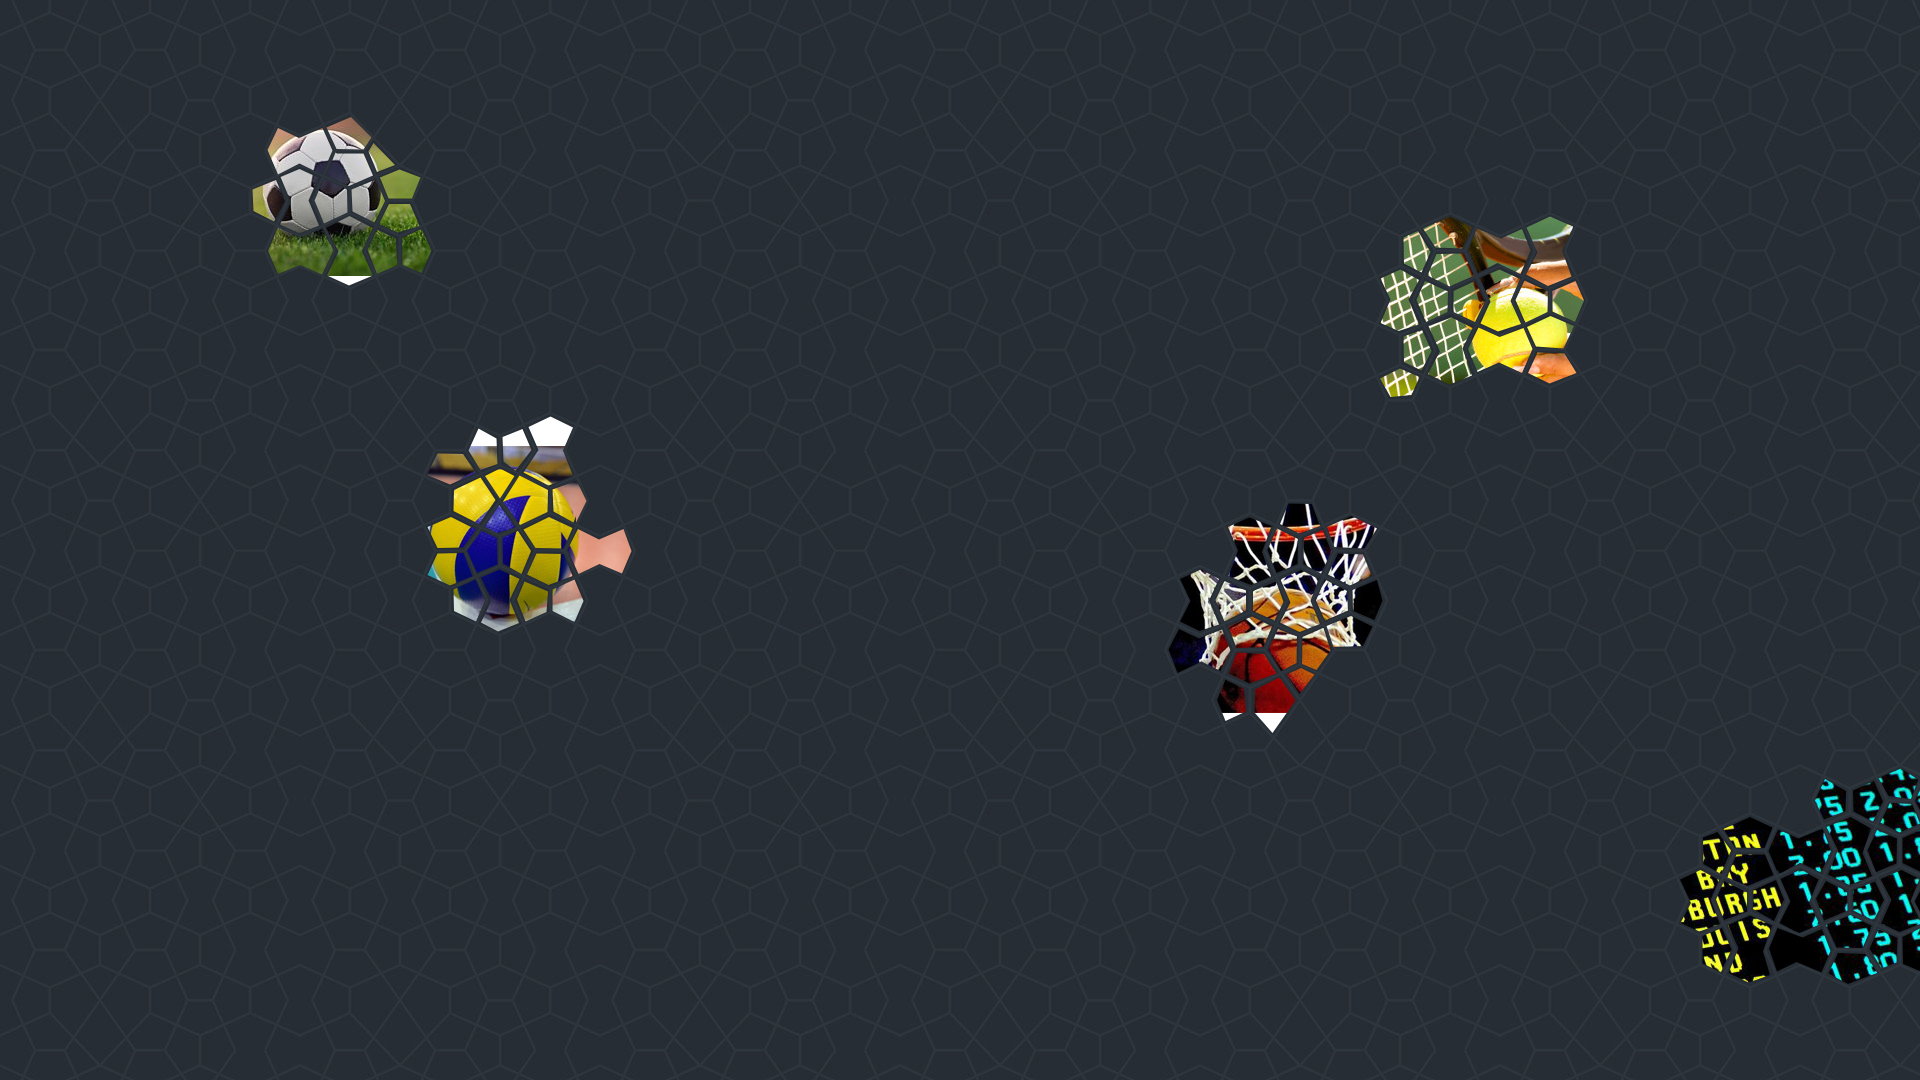
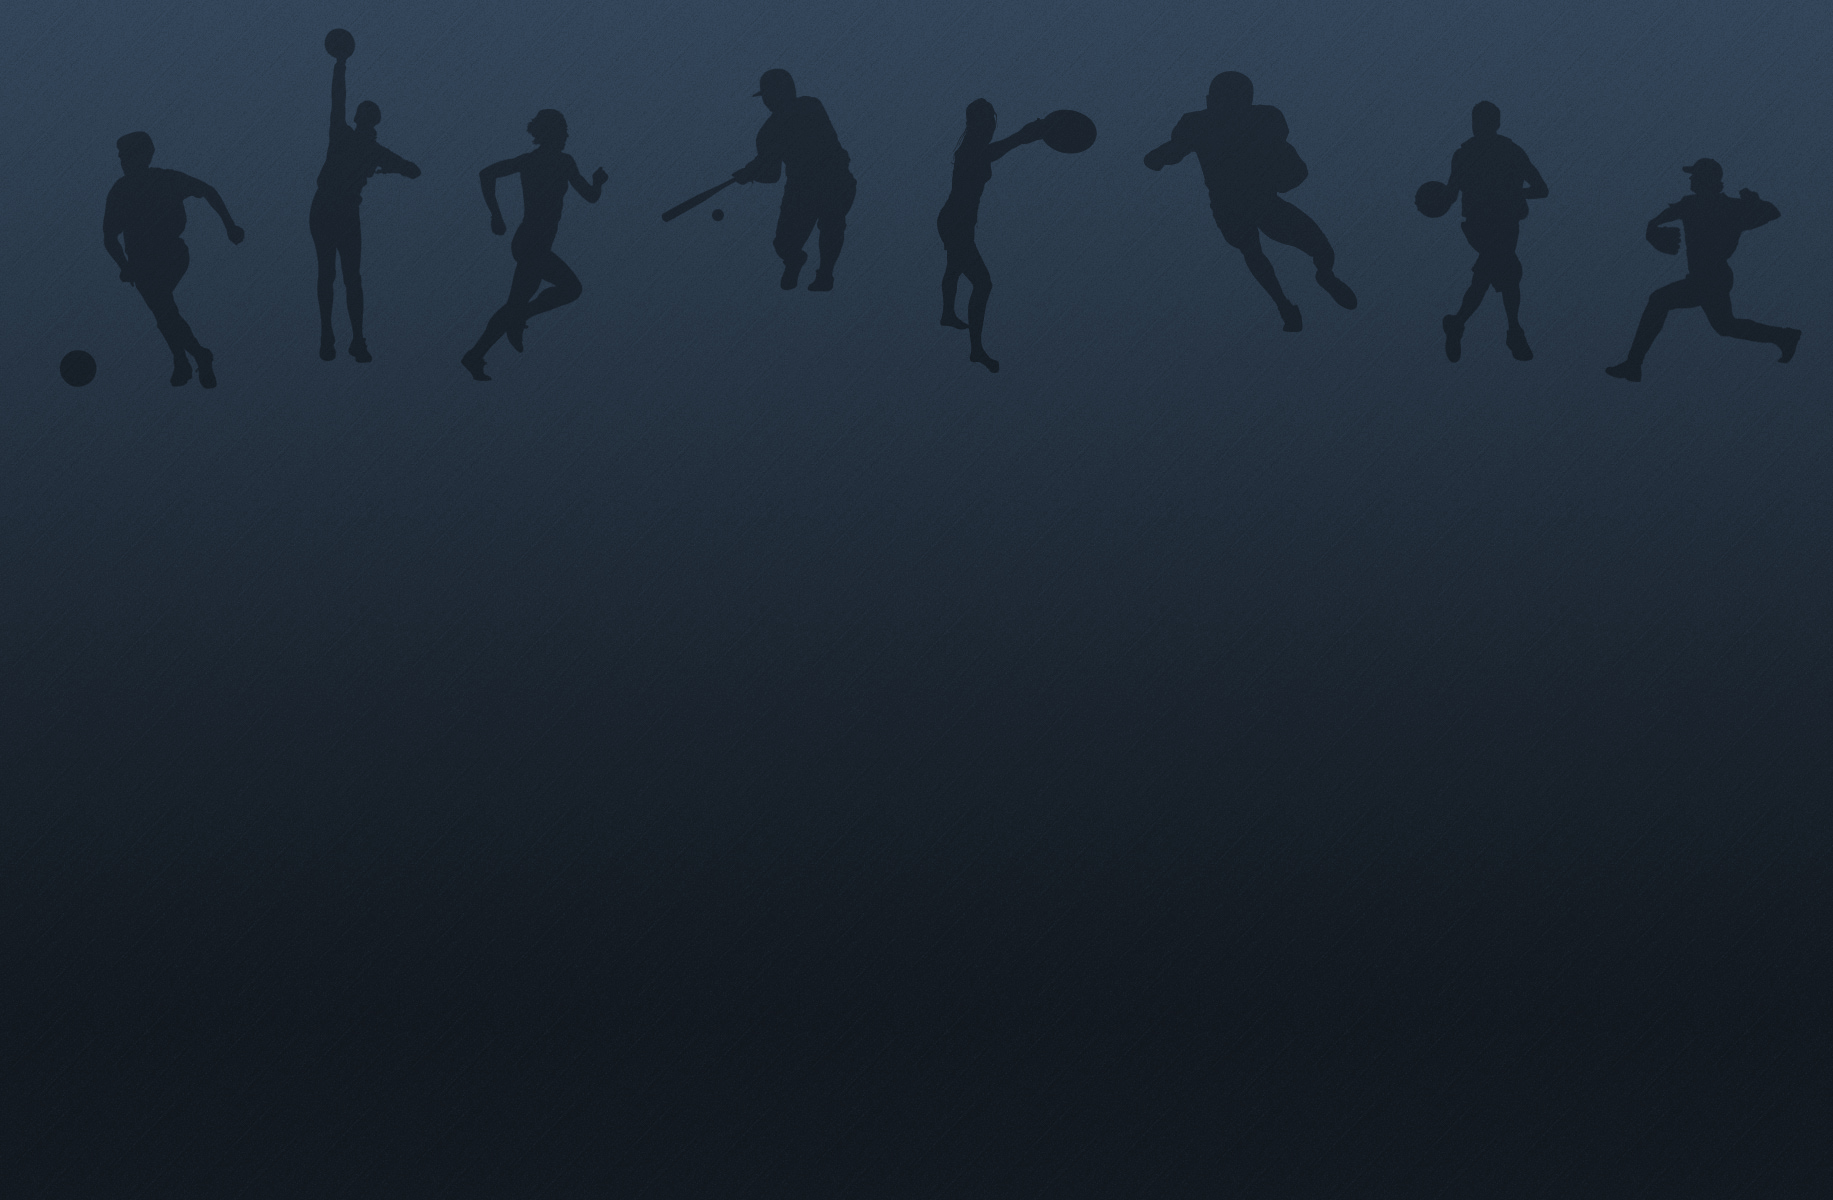
new bg, add-bet server validation

diff --git a/views/landing.html b/views/landing.html
@@ -60,7 +60,7 @@
 <div id="benefits">
 	<div id="title">Korzystając z aplikacji możesz:</div>
 <div class="row">
-	<div class="col-md-4">
+	<div class="col-md-4 col-xs-6">
 		<div class="th-head">
 			<div class="corner-right"></div>
 			<div class="corner-left"></div>
@@ -68,7 +68,7 @@
 		</div>
 		<div class="th-text">Wymieniać się typami bukmacherskimi z innymi użytkownikami</div>
 	</div>
-	<div class="col-md-4">
+	<div class="col-md-4 col-xs-6">
 		<div class="th-head">
 			<div class="corner-right"></div>
 			<div class="corner-left"></div>
@@ -76,7 +76,7 @@
 		</div>
 		<div class="th-text">Dodawać typy bez analizy, lub te poparte danymi czy statystykami</div>
 	</div>
-	<div class="col-md-4">
+	<div class="col-md-4 col-xs-6">
 		<div class="th-head">
 			<div class="corner-right"></div>
 			<div class="corner-left"></div>
@@ -84,7 +84,7 @@
 		</div>
 		<div class="th-text">Awansować w rankingu użytkowników, który generowany jest automatycznie</div>
 	</div>
-	<div class="col-md-4 col-md-offset-2">
+	<div class="col-md-4 col-xs-6 col-md-offset-2">
 		<div class="th-head">
 			<div class="corner-right"></div>
 			<div class="corner-left"></div>
@@ -93,7 +93,7 @@
 		<div class="th-text">Wybierać wydarzenia pobierane z zewnętrznego źródła</div>
 
 	</div>
-	<div class="col-md-4 col-md-offset-right-2">
+	<div class="col-md-4 col-xs-12 col-md-offset-right-2">
 		<div class="th-head">
 				<div class="corner-right"></div>
 				<div class="corner-left"></div>
@@ -117,41 +117,3 @@
 		</form>
 	</div>
 </div>
-
-<!-- <div id="landing-header">
-	<div id="welcome">
-		<div id="title">betTogether</div>
-		<div id="subtitle">Dziel się typami bukmacherskimi!</div>
-	</div>
-</div>
-
-<div id="landing-register">
-
-	
-</div>
-
-<div id="landing-rest">
-	<div class="title">Korzystając z aplikacji możesz:</div>
-	<div class="row">
-		<div class="col-md-6">
-		<i class="fa fa-exchange second-color" aria-hidden="true"></i>
-		Wymieniać się typami bukmacherskimi <br> z innymi użytkownikami aplikacji
-		</div>
-		<div class="col-md-6">
-		<i class="fa fa-plus second-color" aria-hidden="true"></i>
-		Dodawać swoje typy,<br> aby inni mogli z nich korzystać
-		</div>
-		<div class="col-md-6">
-		<i class="fa fa-th-list second-color" aria-hidden="true"></i>
-		Generować kupon<br> na podstawie typów innych użytkowników
-		</div>
-		<div class="col-md-6">
-		<i class="fa fa-line-chart second-color" aria-hidden="true"></i>
-		Awansować w rankingu typerów
-		</div>
-	</div>
-</div>
-
-<div class="container-fluid footer">
-    projekt inżynierski - 2017 Konrad Dzień
-</div> --> 

diff --git a/views/descbets.html b/views/descbets.html
@@ -1,30 +1,14 @@
-
-
-<!-- <div class="panel panel-default"  >
-  <div class="panel-heading"><b>&nbsp;{{bet.nazwa}}</b>
-  
-  </div>
-  <div class="panel-body" >
-	  <div id="info">
-	  	<div class="col-md-4">Typ:<b>{{bet.typ}}</b></div>
-	  	<div class="col-md-4">Kurs:<b>{{bet.kurs}}</b></div>
-	  	<div class="col-md-4">Data:<b>{{bet.data | date:'HH:ss, dd.MM.yyyy'}}</b></div>
-	  </div>  
-	  <div><b>Analiza: </b>{{bet.analiza}}</div>
-	  <div style="text-align:right">Użytkownik: {{bet.user.name}}</div>
-  </div>
-</div> -->
-
-<div class ="col-md-6 col-md-offset-3 desc-bet" ng-repeat="bet in bets" ng-click="addItem(bet.nazwa)">
+<div class ="col-md-8 col-md-offset-2 desc-bet" ng-repeat="bet in bets" ng-click="addItem(bet.nazwa)">
 		<div class="{{bet.category}}-background" id="ico">
 			<img  ng-src="./images/{{bet.category}}.png" />
 		</div>
 		<div  id="desc">
 			<div id="title">{{bet.nazwa}}</div>
 			<div  class="row" id="info">
-				<div class="col-md-6">Typ: <b>{{bet.typ}}</b></div>
-				<div class="col-md-6">Kurs: <b>{{bet.kurs}}</b></div>
-				<div class="col-md-12">Data: <b>{{bet.data | date: 'HH:ss, dd.MM.yyyy'}}</b></div>
+				<div class="col-md-4">Typ: <b>{{bet.typ}}</b></div>
+				<div class="col-md-4">Kurs: <b>{{bet.kurs}}</b></div>
+				<div class="col-md-4">Użytkownik: <b>{{bet.user.name}}</b></div>
+				<div class="col-md-12">Data dodania: <b>{{bet.data | date: 'HH:ss, dd.MM.yyyy'}}</b></div>
 			</div>
 			<div id="analyse">{{bet.analiza}}</div>
 		</div>

diff --git a/expr_routes/routes.js b/expr_routes/routes.js
@@ -41,27 +41,27 @@ router.get('/bets/:choice', function(req,res,next){
 
 router.post('/bets/', function(req,res,next){
 	var currentUserId=req.body.user;
-	var brakujace=""
-	var send=true;
-	if(req.body.nazwa==undefined){
-		send=false;
-		brakujace+="typ "
+	var errors = new Array();
+	if(req.body.nazwa==undefined || req.body.nazwa==''){
+		errors.push("Nie wybrałeś wydarzenia")
 	}
-	if(req.body.typ==undefined){
-		send=false;
-		brakujace+="wydarzenie, "
+	if(req.body.typ==undefined || req.body.typ==''){
+		errors.push("Nie wprowadziłeś typu")
 	}
-	if(req.body.kurs==undefined){
-		send=false;
-		brakujace+="kurs"
+	if(req.body.kurs==undefined  || req.body.kurs==''){
+		errors.push("Nie wprowadziłeś kursu")
+	}
+	if(req.body.isAnalize==true && (req.body.analiza==undefined || req.body.analiza=='') ){
+		errors.push("Nie wprowadziłeś analizy")
 	}
 
 	Bet.findOne({nazwa : req.body.nazwa, user: currentUserId},function(err,bet){
-		if(bet==null){
-			if(send==false){
-				res.json("Uzupełnij brakujące pola: " + brakujace)
-				return;
-			}else{
+		if(bet){
+			res.status(403).send(["Dodałeś już typ na to wydarzenie"]);
+		}
+		else{
+			if(errors.length!=0){res.status(403).send(errors)}
+			else{
 				var bet = new Bet(req.body);
 				bet.save(function(err,bets){
 					if(err){return next(err);}
@@ -73,9 +73,6 @@ router.post('/bets/', function(req,res,next){
 				});
 				
 			}
-		}
-		else{
-			res.json("Dodałeś już typ na to wydarzenie")
 		}
 	})
 	

diff --git a/views/addbet.html b/views/addbet.html
@@ -6,32 +6,32 @@
 </div>
 
 <div id="form-panel">
-	<form>
+	<form ng-submit="postBet()">
 		<div class="checkboxed" >
 			<label>Z analizą</label>
 			<input type="checkbox" ng-model="descChecked" checked="checked" name="radio">
 		</div>
 		<label>Wydarzenie*</label>
 
-		<select class="form-control" ng-model="betEvent">
+		<select class="form-control" ng-model="betEvent" required>
 			<optgroup ng-repeat="a in allE | filter:currentChoice" label="{{a.league}}">
 				<option ng-repeat="event in a.matches">{{event.match_name}}</option>
 			</optgroup>
 		</select>		
 
 		<label>Zdarzenie*</label>
-		<select class="form-control" ng-model="betType">
+		<select class="form-control" ng-model="betType" required>
 			<option>1</option>
 			<option>X</option>
 			<option>2</option>
 		</select>
 		<label>Kurs*</label>
-		<input placeholder="" class="form-control" type="number" step="0.01" min="0" ng-model="betCourse"></input>
+		<input placeholder="" class="form-control" type="number" step="0.01" min="0" ng-model="betCourse" required></input>
 		<div ng-show="descChecked">
 			<label>Analiza</label>
-			<textarea  ng-model="betAnalyse"></textarea>
+			<textarea  ng-model="betAnalyse" ></textarea>
 		</div>
-		<button class="form-control" ng-click="postBet()">Dodaj typ</button>
+		<button class="form-control" >Dodaj typ</button>
 	</form>
 </div>
 <div class="warning">{{errorMessage}}</div>

diff --git a/views/ranking.html b/views/ranking.html
@@ -4,6 +4,9 @@
 		<input placeholder="wyszukaj" class="form-control" ng-model="userSearch"></input>
 	</form>
 </div>
+<div class="nobets" ng-if="checkCurrentUser()">
+	<span class="green">{{currentUser}}</span>, dodaj typ, aby być w rankingu!
+</div>	
 <div id="rank-wrapper">
 	<div class="row rank "  >
 		<div class="col-md-3">
@@ -36,32 +39,5 @@
 			</div>
 		</div>
 	</div>
-			
 </div>
-
-<!-- <div class="table-responsive">
-	<table class="table">
-		<thead>
-			<tr>
-				<th>użytkownik</th>
-				<th>liczba typów</th>
-				<th>typy trafione</th>
-				<th>progres</th>
-			</tr>
-		</thead>
-		<tbody>
-			<tr >
-				<td>{{stat.user.name}}</td>
-				<td>{{stat.betCount}}</td>
-				<td>{{stat.rank}}</td>
-				<td>
-					<div class="progress">
-						<div class="progress-bar progress-bar-success" role="progressbar" style="width:{{getPercentage(stat)[0]}}%">
-						</div>
-					</div>
-				</td>
-			</tr>
-		</tbody>
-	</table>
-	</div>
-</div> -->
+	

diff --git a/scraperScripts/scraper.js b/scraperScripts/scraper.js
@@ -58,10 +58,10 @@ function getSportsEvents(url, name,statusType,callback){
 	            	if(elem.children[4].children[0].children[0].children===undefined){
 	            		return;
 	            	}
-	            	var home=elem.children[4].children[0].children[0].children[0].data;
+					var home=elem.children[4].children[0].children[0].children[0].data;
+					if(elem.children[4].children[0].children[1].children[0]===undefined){return}
 	            	var away = elem.children[4].children[0].children[1].children[0].data;
 	            	var match_name = home+"-"+away;
-	            	console.log(match_name);
 	            	var score_home = elem.children[6].children[1].children[0].children[0].data;
 	            	var score_away = elem.children[6].children[1].children[1].children[0].data;
 	        		if(league===undefined || away===undefined || home===undefined || score_home===undefined || score_away===undefined){

diff --git a/scripts/controllers/rankingCtrl.js b/scripts/controllers/rankingCtrl.js
@@ -7,6 +7,7 @@ function($scope,$location,$http,cuponFactory,$timeout,auth){
 	$scope.currentUser=auth.currentUser().name;
 	$http.get("/rank").success(function(data) {
 		$scope.stats = data;
+		$scope.checkCurrentUser()
 	});
 
 	$scope.getPercentage = function(item){
@@ -22,5 +23,15 @@ function($scope,$location,$http,cuponFactory,$timeout,auth){
 		if(item!=undefined){
 			return item.rank/item.betCount;
 		}
+	}
+	$scope.checkCurrentUser = function(){
+		for (var elem of $scope.stats) {
+			if(elem.user.name==$scope.currentUser){
+				if(elem.betCount==0){
+					return true;
+				}
+			}	
+		}
+		return false;
 	}
 }]);

diff --git a/scripts/controllers/addBetCtrl.js b/scripts/controllers/addBetCtrl.js
@@ -44,15 +44,18 @@ function($scope,$location,$http,auth,$timeout){
 			user:auth.currentUser()._id
 		};
 			$http.post("/bets", $scope.formJson).success(function(data,status) {
+				$scope.errorMessage="Dodano typ"
 				$scope.errorMessage=data;
 				$scope.betEvent=""
 				$scope.betType=""
 				$scope.betCourse=""
 				$scope.betAnalyse=""
-				$timeout(function(){
-					$scope.errorMessage = "";
-				},3000)
-			});			
+			}).error(err=>{
+				$scope.errorMessage= err.join(', ')
+			});	
+			$timeout(function(){
+				$scope.errorMessage = "";
+			},3000)		
 		}
 
 	function cleanForm() {

diff --git a/styles/css/addbet.css b/styles/css/addbet.css
@@ -25,6 +25,9 @@
         background-color: #667786; }
       #form-panel form select *:not(button):focus, #form-panel form input *:not(button):focus, #form-panel form textarea *:not(button):focus, #form-panel form button *:not(button):focus {
         box-shadow: 0px -1px 5px 2px #ef6d00; }
+    #form-panel form textarea {
+      color: white;
+      padding: 5px; }
     #form-panel form button:hover {
       background-color: #242a2f; }
     #form-panel form textarea {

diff --git a/styles/css/main.css b/styles/css/main.css
@@ -88,6 +88,8 @@ a {
     @media screen and (max-width: 720px) {
       #menu-left #logout {
         position: initial; } }
+    #menu-left #logout:hover {
+      background-color: #2f373d; }
 
 #content-right {
   overflow: auto;
@@ -199,6 +201,7 @@ a {
   animation-duration: 0.2s; }
 
 .warning {
+  font-size: 18px;
   text-align: center;
   color: #ffb414;
   font-weight: bold; }

diff --git a/styles/scss/main.scss b/styles/scss/main.scss
@@ -103,6 +103,9 @@ a{
 		@media screen and (max-width: 720px) {
 	    	position:initial;
 		}
+		&:hover{
+			background-color:lighten($foreground-second-color,5%)
+		}
 		position:absolute;
 		bottom:0;
 		left:0;
@@ -238,6 +241,7 @@ a{
     animation-duration:0.2s;
 }
 .warning{
+	font-size:18px;
 	text-align:center;
 	color:#ffb414;
 	font-weight:bold;

diff --git a/styles/css/ranking.css b/styles/css/ranking.css
@@ -37,4 +37,12 @@ table tbody tr td {
 .green {
   color: #77F60F; }
 
+.nobets {
+  color: black;
+  text-align: center;
+  font-size: 18px;
+  margin-bottom: 10px; }
+  .nobets span {
+    font-weight: bold; }
+
 /*# sourceMappingURL=maps/ranking.css.map */
